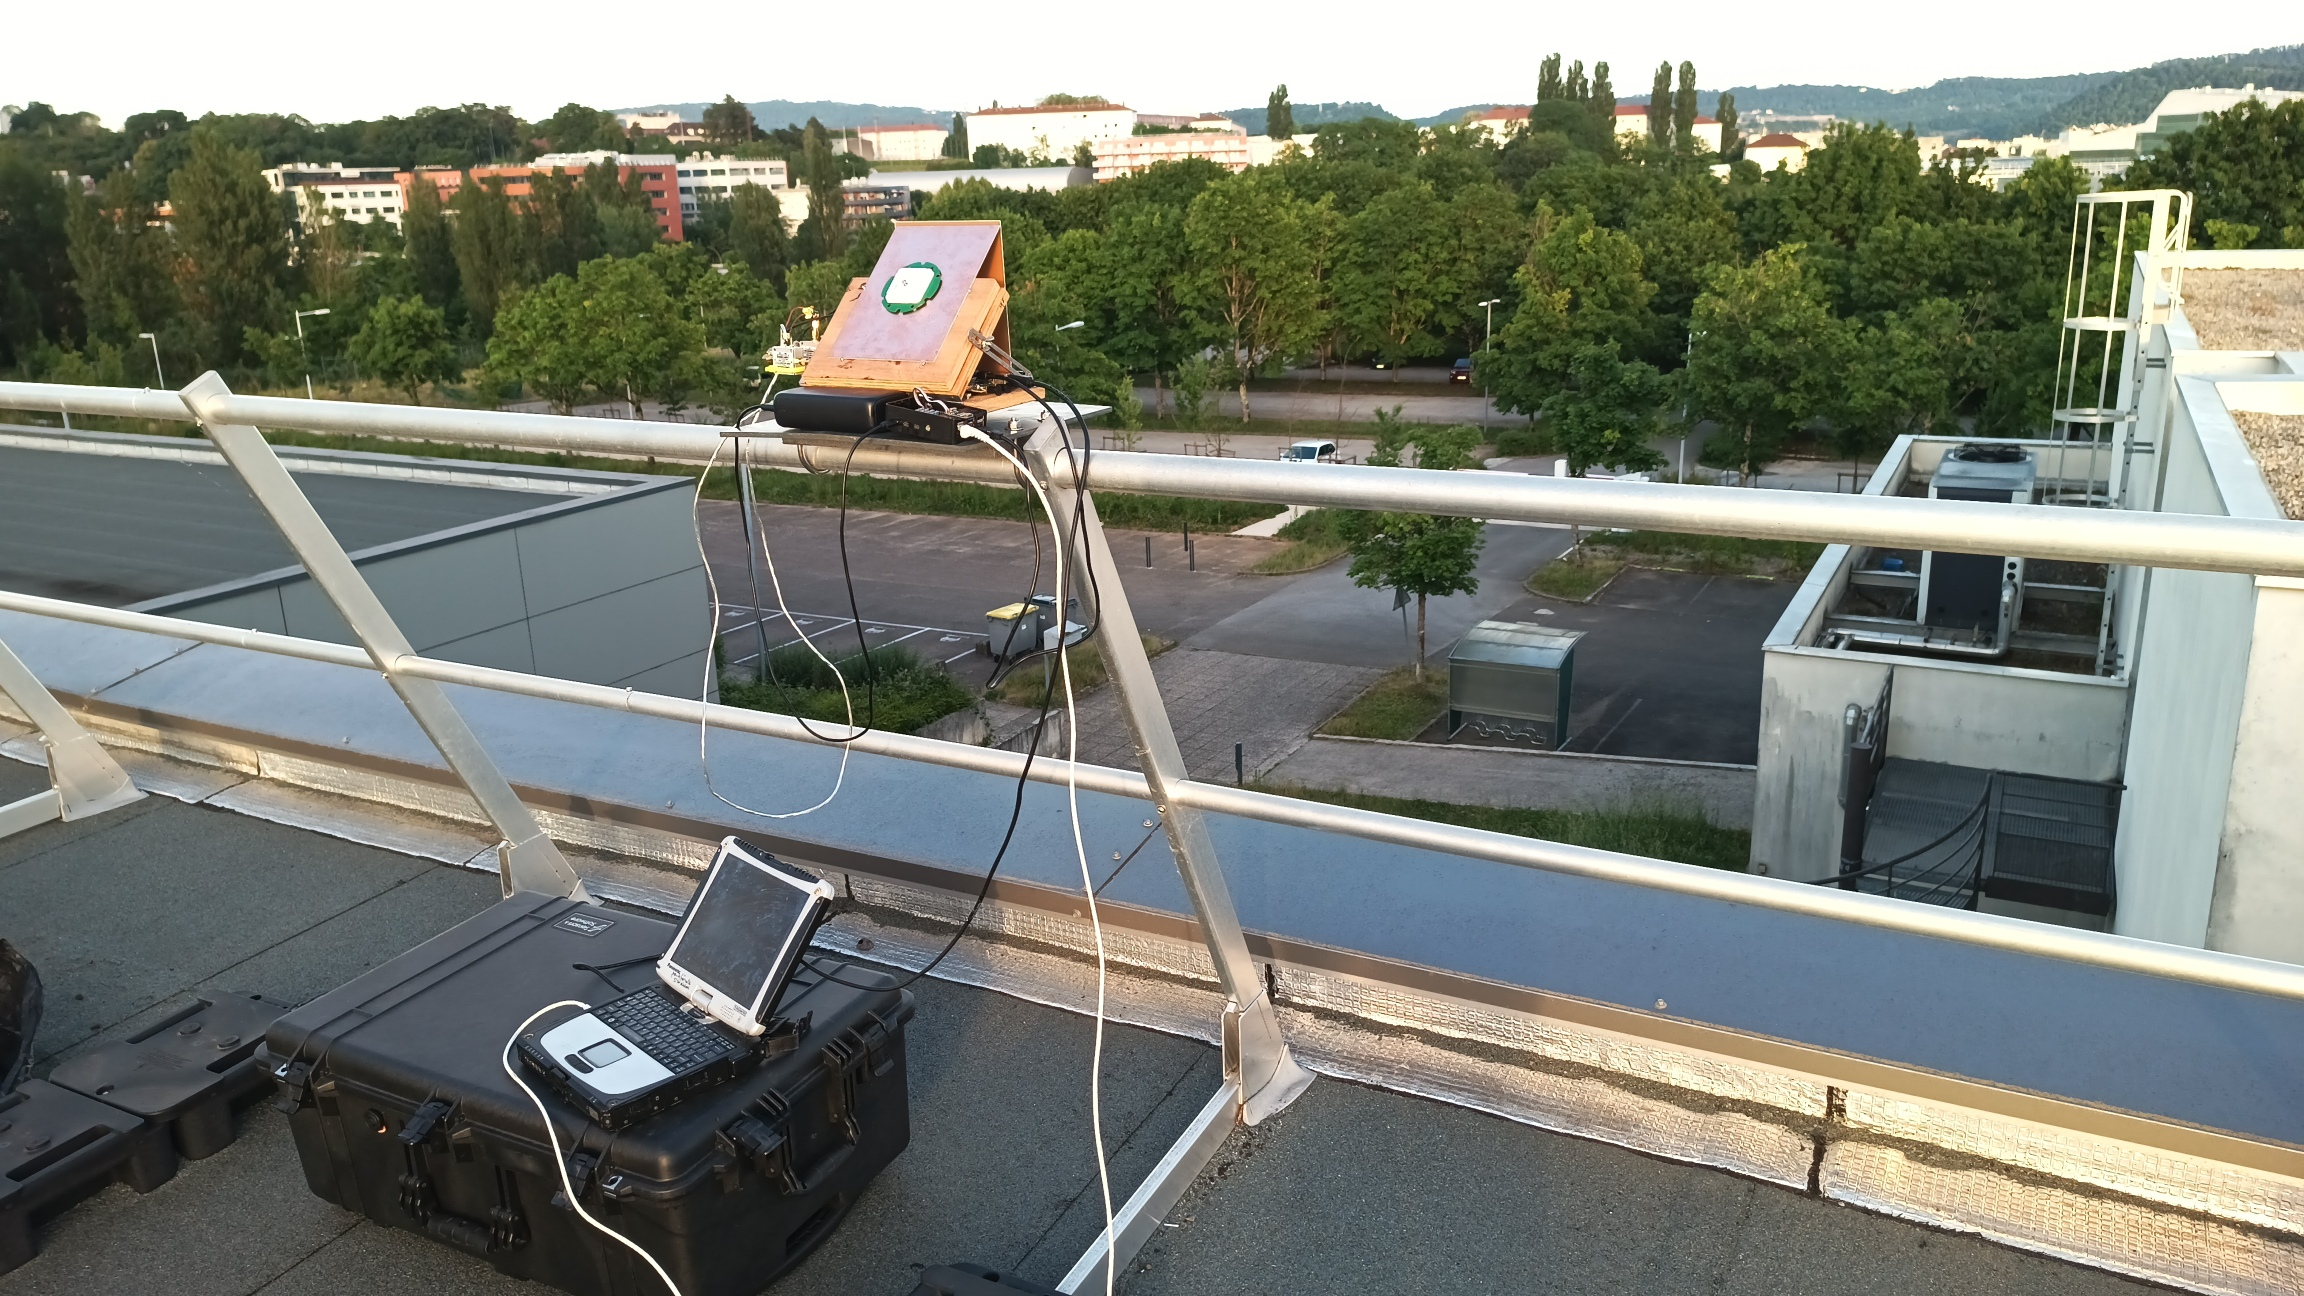
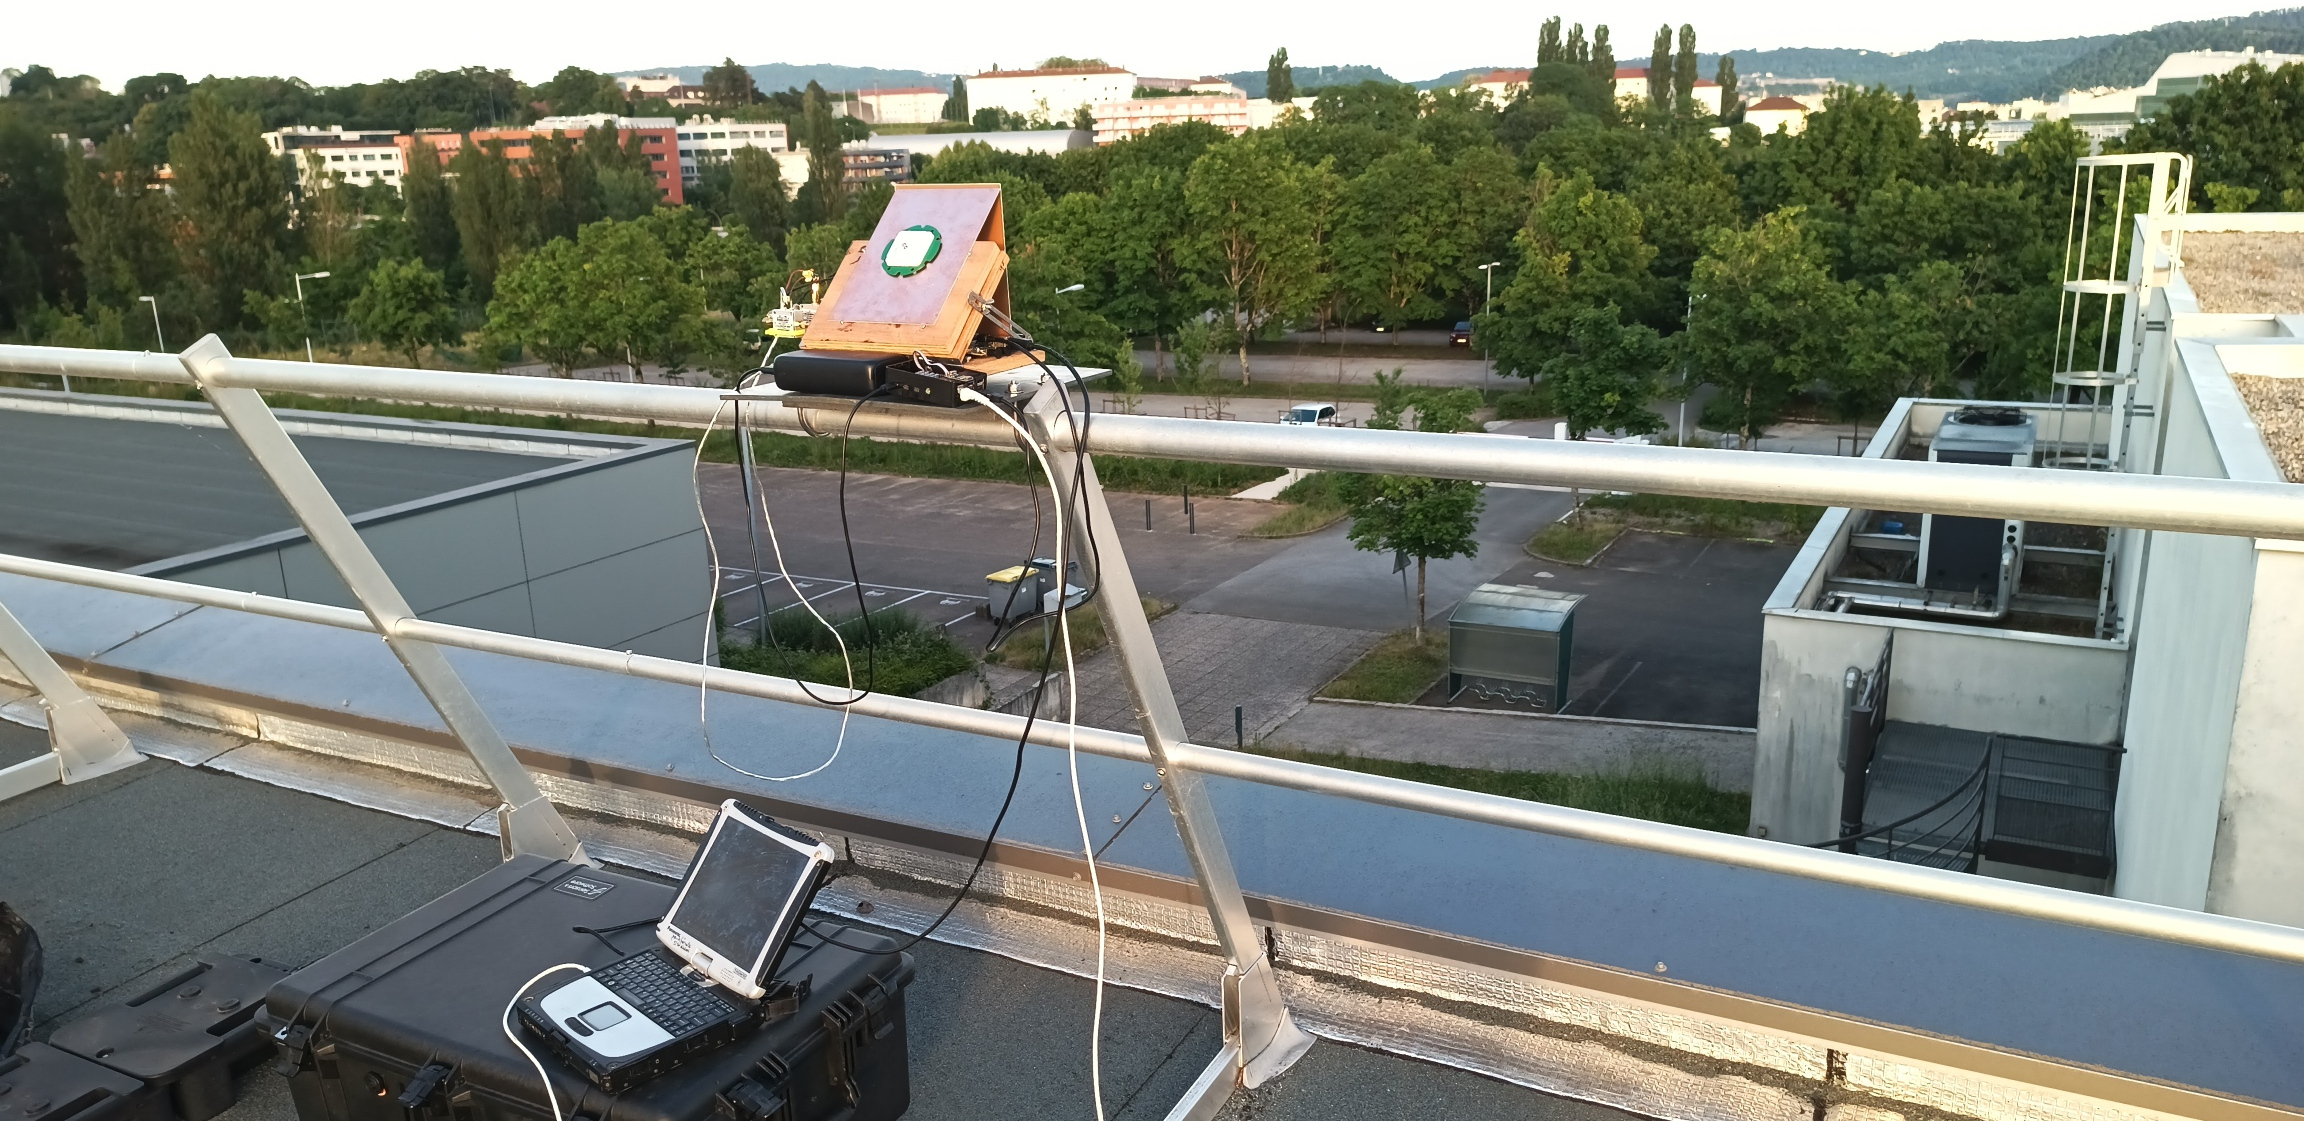
update figure

diff --git a/260530/README.md b/260530/README.md
@@ -1,5 +1,7 @@
 # Combined B210 and MAX2771 raw data recording
 
+<img src="IMG_20260530_203757_034small.jpg">
+
 Reference is MAX2771 channel 2/B210 channel B
 
 Surveillance is MAX2771 channel 1/B210 channel A
@@ -39,3 +41,4 @@ total 8916408
 -rw-r--r-- 1 jmfriedt jmfriedt 3124129440 May 30 20:43 1.bin
 -rw-r--r-- 1 jmfriedt jmfriedt 3124129440 May 30 20:43 2.bin
 ```
+